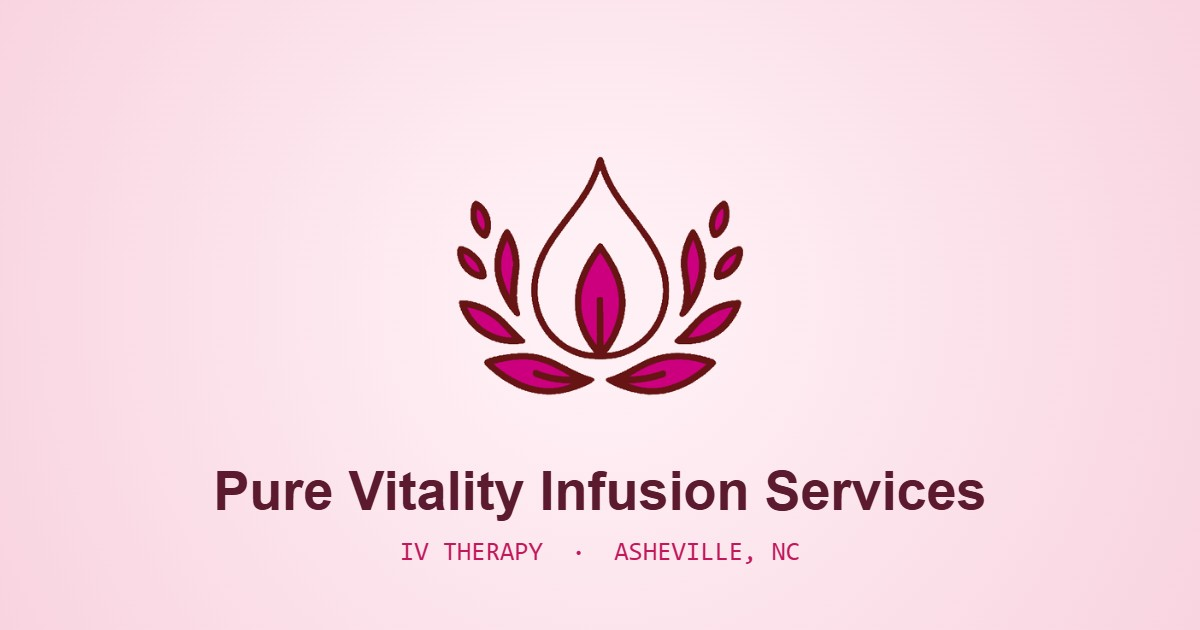
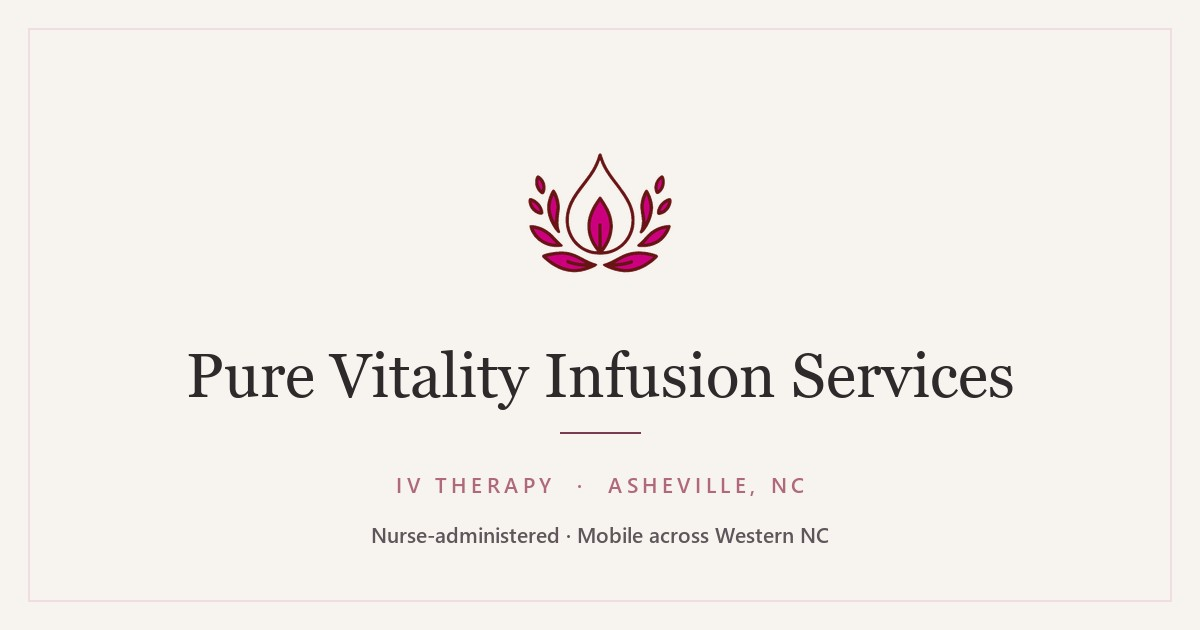
Rebuild the social share image in the Muted Rose palette
The old og-image.jpg was carried over from the previous site: pale pink
gradient background, bold sans wordmark, monospace subtitle — the old brand,
and the one place the retired palette was still reaching people, since it is
what renders whenever the link is shared.

Rebuilt on sand with a hairline blush frame, the logo mark, a serif wordmark
in ink, a plum rule and a rose eyebrow. No gradient, square corners, matching
the site.

Type is set in Georgia and Segoe UI Semibold — the stylesheet's own declared
fallbacks for Newsreader and Hanken Grotesk. Google's font endpoint would not
serve usable TTFs for local rendering.

Also clarifies the lab draw row label to "Each additional panel or specimen
box" now that both are confirmed at $25.

diff --git a/lab-draw.html b/lab-draw.html
@@ -109,7 +109,7 @@
           <span class="pv-menu__price">$50</span>
         </li>
         <li class="pv-menu__row">
-          <span class="pv-menu__name">Each additional panel or box<span class="pv-menu__note">Added to the same order, on top of the initial draw</span></span>
+          <span class="pv-menu__name">Each additional panel or specimen box<span class="pv-menu__note">Added to the same order, on top of the initial draw</span></span>
           <span class="pv-menu__price">+$25</span>
         </li>
     </ul>
